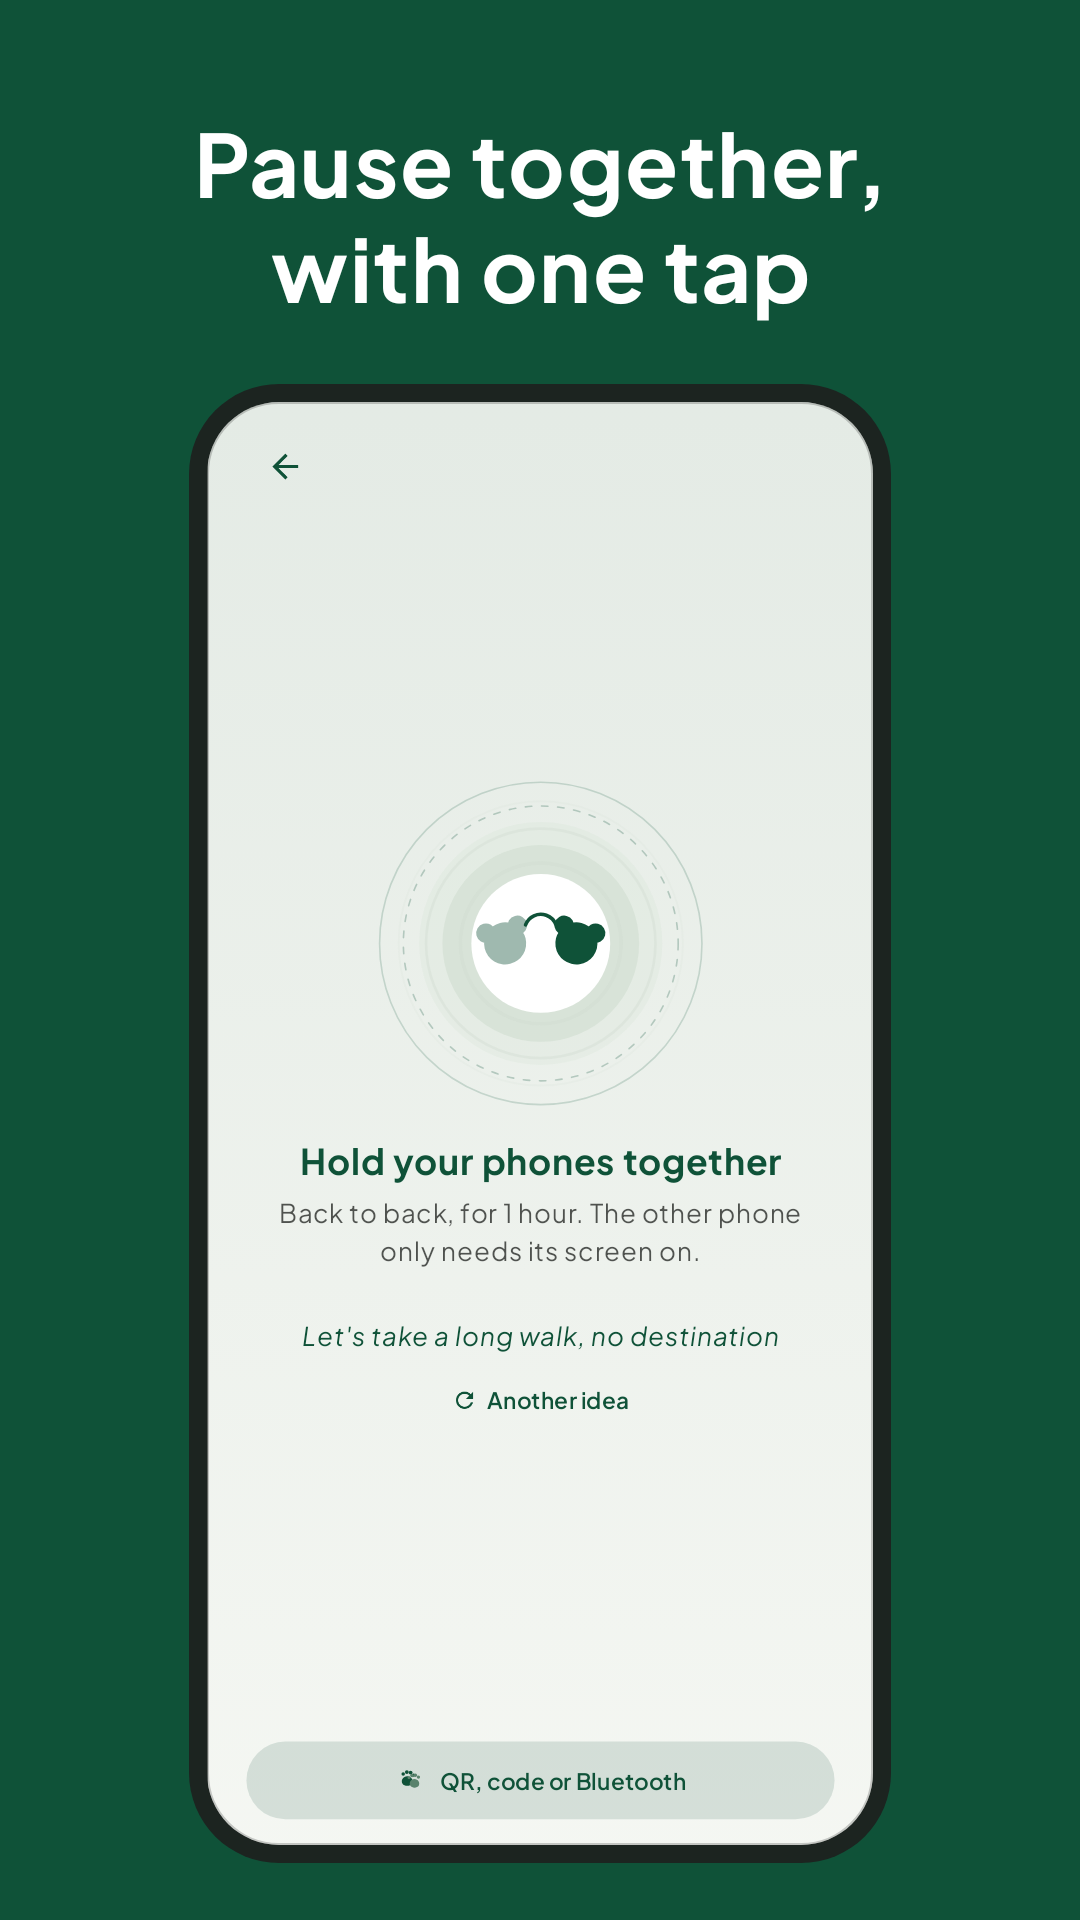
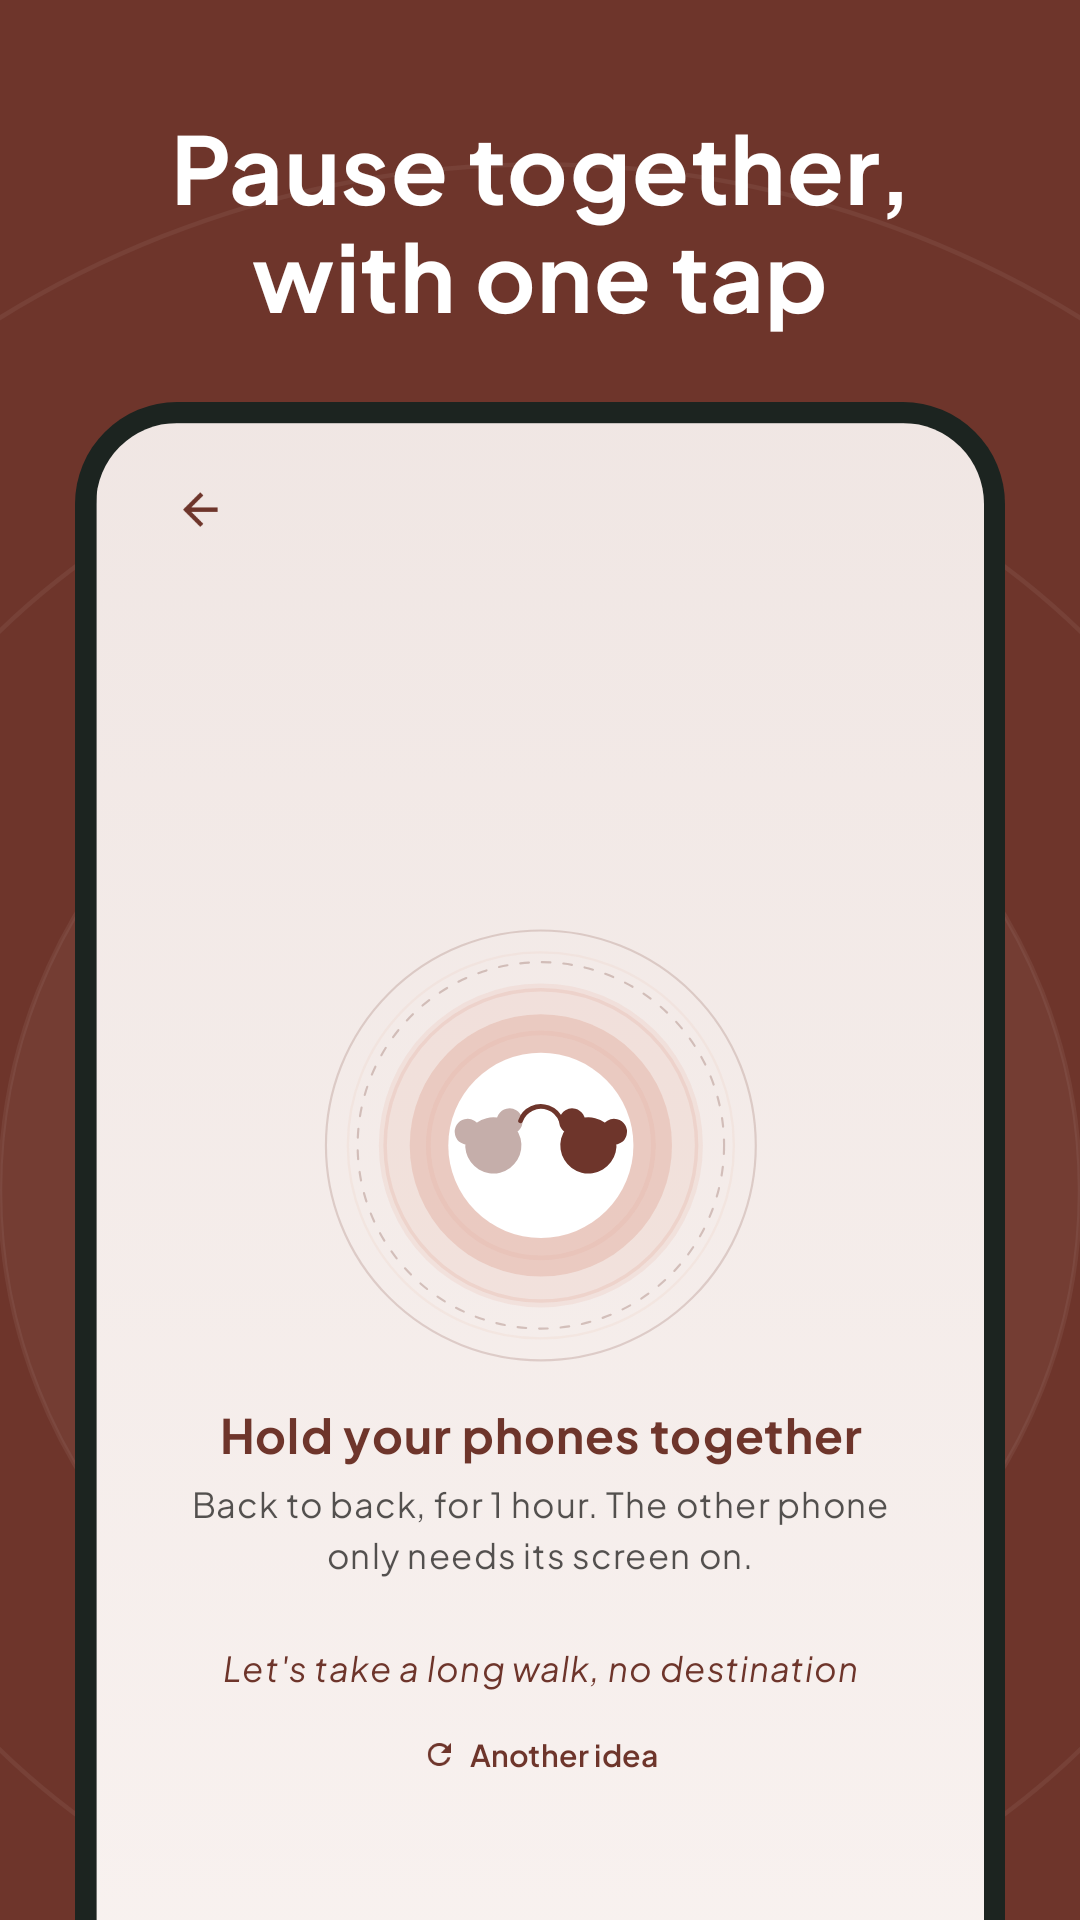
Screenshot dello store più leggibili: telefono grande che esce dal fondo, una palette per schermata
Su Play gli screenshot si vedono piccoli, in fila: il telefono era al 54%,
con metà schermata vuota, e tutti e sei sullo stesso verde. Ora è al 72%,
ancorato sotto la didascalia ed esce dal bordo in basso; ogni schermata usa
una delle quattro palette dell'app, con gli anelli dello stagno sullo sfondo.
Le pause programmate sono cinque invece di tre.

Claude-Session: https://claude.ai/code/session_01YQvXi6KKHqgudTToLxs2ZG

diff --git a/app/src/test/java/com/calmotter/app/screenshots/StoreScreenshotsTest.kt b/app/src/test/java/com/calmotter/app/screenshots/StoreScreenshotsTest.kt
@@ -93,9 +93,9 @@ class StoreScreenshotsTest(private val lang: String) {
         @ParameterizedRobolectricTestRunner.Parameters(name = "{0}")
         fun params(): List<Array<Any>> = listOf(arrayOf<Any>("it"), arrayOf<Any>("en"))
 
-        /** Il telefono degli screenshot test, che qui viene rimpicciolito nella cornice. */
-        private val PHONE_W = 411.dp
+        /** Il telefono degli screenshot test, rimpicciolito nella cornice. */
         private val PHONE_H = 891.dp
+        private val PHONE_W = 411.dp
     }
 
     @get:Rule val compose = createComposeRule()
@@ -112,48 +112,75 @@ class StoreScreenshotsTest(private val lang: String) {
     }
 
     private fun save(name: String, dir: File) {
-        compose.mainClock.advanceTimeBy(1_000)
+        compose.mainClock.advanceTimeBy(4_000)
         val bitmap = compose.onRoot().captureToImage().asAndroidBitmap()
         dir.mkdirs()
         File(dir, name).outputStream().use { bitmap.compress(Bitmap.CompressFormat.PNG, 100, it) }
     }
 
-    /** 1080x1920 (9:16, il formato che Play preferisce per i telefoni). */
-    private fun storeShot(name: String, caption: String, screen: @Composable () -> Unit) {
+    /**
+     * 1080x1920 (9:16, il formato che Play preferisce per i telefoni).
+     * Play li mostra piccoli, in fila: per questo il telefono è grande e
+     * esce dal bordo in basso (niente fondo vuoto rimpicciolito), e ogni
+     * schermata ha una delle quattro palette dell'app, così la fila non è
+     * sei volte lo stesso verde.
+     */
+    private fun storeShot(name: String, caption: String, theme: AppTheme, screen: @Composable () -> Unit) {
         RuntimeEnvironment.setQualifiers("$lang-w360dp-h640dp-xxhdpi")
         compose.setContent {
-            CalmOtterTheme(appTheme = AppTheme.SAGE) {
+            CalmOtterTheme(appTheme = theme) {
                 val colors = MaterialTheme.colorScheme
-                Column(
-                    modifier = Modifier.fillMaxSize().background(colors.primary),
-                    horizontalAlignment = Alignment.CenterHorizontally,
-                ) {
-                    Text(
-                        caption,
-                        color = colors.onPrimary,
-                        fontSize = 29.sp,
-                        lineHeight = 35.sp,
-                        fontWeight = FontWeight.Bold,
-                        textAlign = TextAlign.Center,
-                        modifier = Modifier.fillMaxWidth().height(128.dp).padding(start = 28.dp, end = 28.dp, top = 36.dp),
-                    )
-                    Phone(scale = 0.54f, screen = screen)
+                Box(modifier = Modifier.fillMaxSize().background(colors.primary)) {
+                    // Gli anelli dello stagno, appena visibili dietro il telefono.
+                    Canvas(modifier = Modifier.fillMaxSize()) {
+                        val c = Offset(size.width / 2, size.height * 0.62f)
+                        listOf(0.95f, 0.72f, 0.5f).forEach { r ->
+                            drawCircle(colors.onPrimary.copy(alpha = 0.06f), radius = size.width * r, center = c, style = Stroke(1.5.dp.toPx()))
+                        }
+                        drawCircle(colors.onPrimary.copy(alpha = 0.04f), radius = size.width * 0.5f, center = c)
+                    }
+                    Column(
+                        modifier = Modifier.fillMaxSize(),
+                        horizontalAlignment = Alignment.CenterHorizontally,
+                    ) {
+                        Text(
+                            caption,
+                            color = colors.onPrimary,
+                            fontSize = 31.sp,
+                            lineHeight = 36.sp,
+                            fontWeight = FontWeight.Bold,
+                            textAlign = TextAlign.Center,
+                            modifier = Modifier.fillMaxWidth().height(134.dp).padding(start = 24.dp, end = 24.dp, top = 36.dp),
+                        )
+                        // Ancorato in alto e libero di uscire dal fondo: senza
+                        // `unbounded` la colonna lo centrerebbe, coprendo la didascalia.
+                        Box(
+                            modifier = Modifier.fillMaxWidth().weight(1f)
+                                .wrapContentHeight(Alignment.Top, unbounded = true),
+                            contentAlignment = Alignment.TopCenter,
+                        ) { Phone(scale = 0.72f, screenHeight = PHONE_H, screen = screen) }
+                    }
                 }
             }
         }
         save(name, File("../docs/store/screenshots/$lang"))
     }
 
-    /** La schermata vera, larga e alta come un telefono, rimpicciolita dentro una cornice. */
+    /**
+     * La schermata vera, grande come un telefono, rimpicciolita dentro una
+     * cornice. Alta quanto il telefono vero e non meno: la Home e la pausa
+     * ancorano l'otter all'altezza dello schermo, e sotto le ~890dp lo
+     * spostano (vedi OtterAnchoredScreen). Il fondo esce dall'immagine.
+     */
     @Composable
-    private fun Phone(scale: Float, screen: @Composable () -> Unit) {
-        val bezel = 6.dp
+    private fun Phone(scale: Float, screenHeight: Dp, screen: @Composable () -> Unit) {
+        val bezel = 7.dp
         val w: Dp = PHONE_W * scale
-        val h: Dp = PHONE_H * scale
+        val h: Dp = screenHeight * scale
         Box(
             modifier = Modifier
-                .size(w + bezel * 2, h + bezel * 2)
-                .clip(RoundedCornerShape(30.dp))
+                .requiredSize(w + bezel * 2, h + bezel * 2)
+                .clip(RoundedCornerShape(34.dp))
                 .background(Color(0xFF1C2420))
                 .padding(bezel),
             contentAlignment = Alignment.Center,
@@ -161,13 +188,12 @@ class StoreScreenshotsTest(private val lang: String) {
             Box(
                 modifier = Modifier
                     .size(w, h)
-                    .clip(RoundedCornerShape(24.dp))
-                    .border(0.5.dp, Color.Black.copy(alpha = 0.2f), RoundedCornerShape(24.dp)),
+                    .clip(RoundedCornerShape(27.dp)),
                 contentAlignment = Alignment.Center,
             ) {
                 Box(
                     modifier = Modifier
-                        .requiredSize(PHONE_W, PHONE_H)
+                        .requiredSize(PHONE_W, screenHeight)
                         .graphicsLayer(scaleX = scale, scaleY = scale)
                         .background(MaterialTheme.colorScheme.background),
                 ) { screen() }
@@ -198,7 +224,7 @@ class StoreScreenshotsTest(private val lang: String) {
     fun s1Home() {
         val historyManager = SessionHistoryManager.getInstance(context)
         history.forEach { historyManager.add(it) }
-        storeShot("01-home.png", t("Una pausa vera\ndal telefono", "A real break\nfrom your phone")) {
+        storeShot("01-home.png", t("Una pausa vera\ndal telefono", "A real break\nfrom your phone"), AppTheme.SAGE) {
             MainScreen(
                 resumeSignal = 0,
                 sessionManager = SessionManager.getInstance(context),
@@ -221,7 +247,7 @@ class StoreScreenshotsTest(private val lang: String) {
     @Test
     fun s2Block() {
         SessionManager.getInstance(context).startSession(60)
-        storeShot("02-pause.png", t("Si ferma tutto,\ntranne il telefono", "Everything stops\nbut the phone")) {
+        storeShot("02-pause.png", t("Si ferma tutto,\ntranne il telefono", "Everything stops\nbut the phone"), AppTheme.STILL_WATER) {
             BlockScreen(
                 sessionManager = SessionManager.getInstance(context),
                 passwordManager = PasswordManager.getInstance(context),
@@ -235,17 +261,19 @@ class StoreScreenshotsTest(private val lang: String) {
     }
 
     @Test
-    fun s3Together() = storeShot("03-together.png", t("Una pausa insieme,\ncon un tocco", "Pause together,\nwith one tap")) {
+    fun s3Together() = storeShot("03-together.png", t("Una pausa insieme,\ncon un tocco", "Pause together,\nwith one tap"), AppTheme.DAWN_CLAY) {
         QuickTogetherReaderScreen(durationMinutes = 60, activityId = 16, message = null, onAnotherActivity = {}, onOtherWays = {}, onBack = {})
     }
 
     @Test
-    fun s4Schedules() = storeShot("04-schedules.png", t("Pause che partono\nda sole", "Pauses that start\non their own")) {
+    fun s4Schedules() = storeShot("04-schedules.png", t("Pause che partono\nda sole", "Pauses that start\non their own"), AppTheme.SAGE) {
         ScheduledPausesScreen(
             schedules = listOf(
                 ScheduledPause(id = 1, days = 0b0011111, startMinuteOfDay = 21 * 60, durationMinutes = 60),
                 ScheduledPause(id = 2, days = 0b1000000, startMinuteOfDay = 9 * 60, durationMinutes = 120),
                 ScheduledPause(id = 3, days = 0b0011111, startMinuteOfDay = 14 * 60, durationMinutes = 30, windowEndMinuteOfDay = 16 * 60),
+                ScheduledPause(id = 4, days = 0b0100000, startMinuteOfDay = 10 * 60, durationMinutes = 180),
+                ScheduledPause(id = 5, days = 0b1111111, startMinuteOfDay = 22 * 60 + 30, durationMinutes = 45),
             ),
             onToggle = {},
             onEdit = {},
@@ -253,12 +281,12 @@ class StoreScreenshotsTest(private val lang: String) {
     }
 
     @Test
-    fun s5Closing() = storeShot("05-closing.png", t("Un attimo per dire\ncom'è andata", "A moment to say\nhow it went")) {
+    fun s5Closing() = storeShot("05-closing.png", t("Un attimo per dire\ncom'è andata", "A moment to say\nhow it went"), AppTheme.DUSK_SAND) {
         ClosingMomentScreen(effectiveMinutes = 60, onDone = { _, _ -> }, onSkip = {})
     }
 
     @Test
-    fun s6History() = storeShot("06-history.png", t("La tua settimana,\na colpo d'occhio", "Your week,\nat a glance")) {
+    fun s6History() = storeShot("06-history.png", t("La tua settimana,\na colpo d'occhio", "Your week,\nat a glance"), AppTheme.STILL_WATER) {
         HistoryScreen(sessions = history, goal = null, onEditGoal = {}, now = System.currentTimeMillis())
     }
 
@@ -278,7 +306,7 @@ class StoreScreenshotsTest(private val lang: String) {
     }
 
     /**
-     * Chiara di proposito: gli screenshot sono su verde scuro, e accanto a
+     * Chiara di proposito: gli screenshot sono su fondi scuri, e accanto a
      * loro un'immagine chiara si distingue invece di confondersi.
      */
     @Composable
